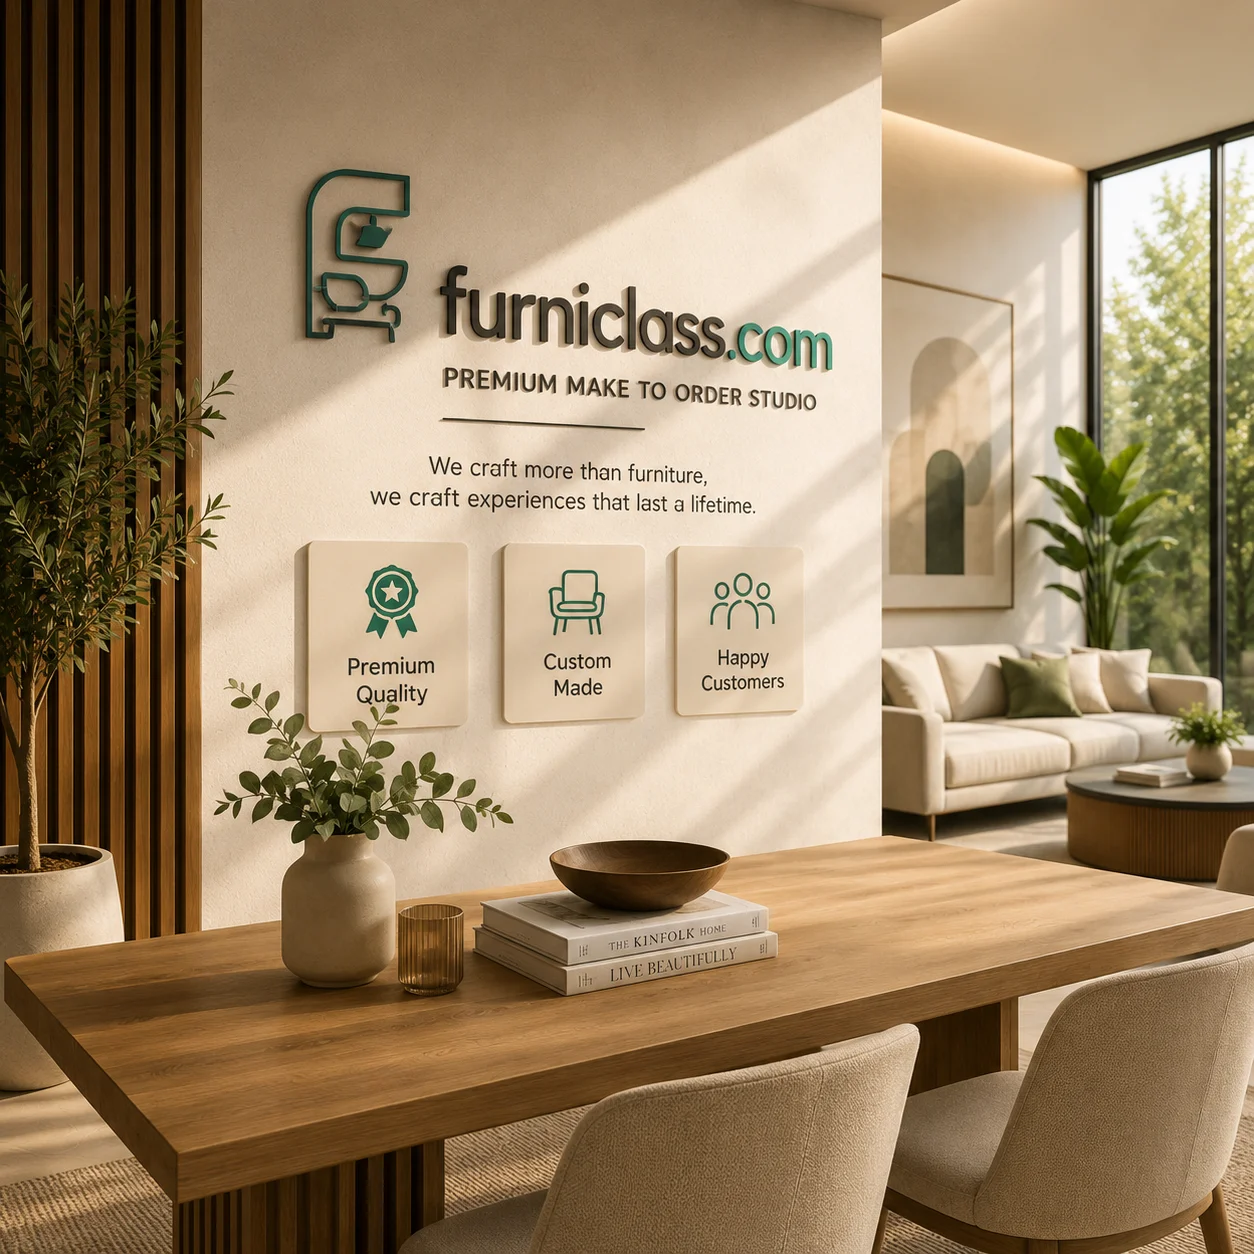
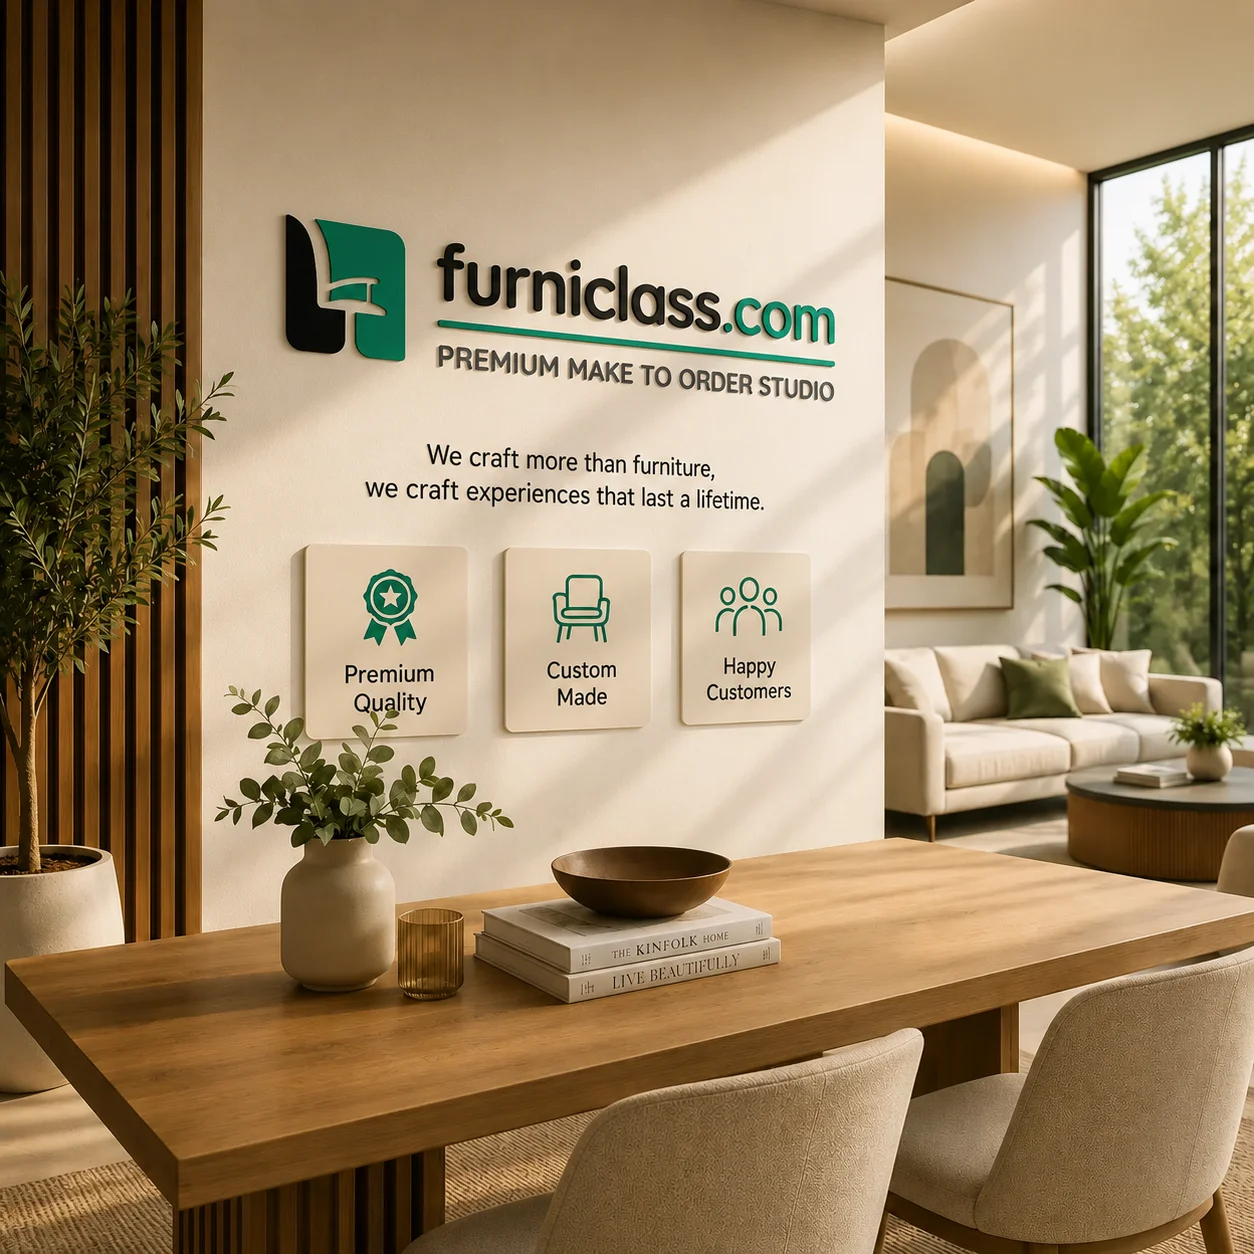
work on furniclass

diff --git a/components/common/footer.tsx b/components/common/footer.tsx
@@ -66,7 +66,7 @@ export default function Footer() {
 
                   {/* Subtitle */}
                   <span className="font-quicksand text-xs font-bold uppercase text-white leading-none">
-                    Premium Make To Order Studio
+                    Make To Order Studio
                   </span>
                 </div>
               </Link>
@@ -185,9 +185,9 @@ export default function Footer() {
                       <path d="M20 10c0 6-8 12-8 12s-8-6-8-12a8 8 0 0 1 16 0Z" />
                       <circle cx="12" cy="10" r="3" />
                     </svg>
-                    <span className="lowercase">
-                      3F-05, OZONE CENTER, SECTOR 12, FARIDABAD, 121007,
-                      HARYANA, DELHI NCR
+                    <span className="">
+                      3F-05, Ozone Center, Sector 12, Faridabad, 121007,
+                      HAryana, Delhi NCR
                     </span>
                   </li>
                   <li className="flex items-center justify-center md:justify-start gap-2.5">
@@ -206,10 +206,10 @@ export default function Footer() {
                       <path d="m22 7-8.97 5.7a1.94 1.94 0 0 1-2.06 0L2 7" />
                     </svg>
                     <a
-                      href="mailto:concierge@Furniclass.com"
+                      href="mailto:concierge@furniclass.com"
                       className="hover:underline"
                     >
-                      concierge@Furniclass.com
+                      concierge@furniclass.com
                     </a>
                   </li>
                   <li className="flex items-center justify-center md:justify-start gap-2.5">

diff --git a/components/about/hero.tsx b/components/about/hero.tsx
@@ -56,8 +56,13 @@ export default function AboutHero() {
       className="w-full bg-bg-main font-quicksand"
     >
       <div className="mx-auto max-w-7xl px-4 sm:px-6 lg:px-8">
+        <div className="mx-auto w-full max-w-7xl py-3 px-4 sm:px-6 lg:px-8 bg-bg-card border border-border-light font-quicksand rounded-xs">
+          <h2 className="text-primary font-bold text-2xl text-center">
+            About Furniclass
+          </h2>
+        </div>
         {/* Top Split Content Section */}
-        <div className="grid grid-cols-1 gap-6 lg:grid-cols-12 lg:gap-12 text-center lg:text-left">
+        <div className="grid grid-cols-1 gap-6 lg:grid-cols-12 lg:gap-12 text-center lg:text-left mt-6">
           {/* Left Text Column */}
           <div className="lg:col-span-6 flex flex-col items-center lg:items-start text-center lg:text-left">
             <h2

diff --git a/components/categories.tsx b/components/categories.tsx
@@ -61,6 +61,11 @@ export default function Category() {
       className="w-full overflow-hidden"
     >
       <div className="mx-auto max-w-7xl px-4 sm:px-6 lg:px-8">
+        <div className="mx-auto w-full max-w-7xl py-3 px-4 sm:px-6 lg:px-8 bg-bg-card border border-border-light font-quicksand rounded-xs">
+          <h2 className="text-primary font-bold text-2xl text-center">
+            Furniclass Category
+          </h2>
+        </div>
         {/* <SectionHeading
           id="category-heading"
           title="Categories"
@@ -68,7 +73,7 @@ export default function Category() {
         /> */}
 
         {/* Category Swiper Slider Showcase */}
-        <div className="w-full overflow-hidden">
+        <div className="w-full overflow-hidden mt-6">
           <Swiper
             modules={[Autoplay, Pagination]}
             spaceBetween={40}

diff --git a/app/blogs/page.tsx b/app/blogs/page.tsx
@@ -89,9 +89,15 @@ export default function BlogsPage() {
   return (
     <main className="font-quicksand bg-bg-main">
       <PageBanner />
+
       <section className="">
         <div className="mx-auto max-w-7xl px-4 sm:px-6 lg:px-8">
-          <div className="grid grid-cols-1 gap-6 lg:grid-cols-12 items-start">
+          <div className="mx-auto w-full max-w-7xl py-3 px-4 sm:px-6 lg:px-8 bg-bg-card border border-border-light font-quicksand rounded-xs">
+            <h2 className="text-primary font-bold text-2xl text-center">
+              Furniclass Blogs
+            </h2>
+          </div>
+          <div className="grid grid-cols-1 mt-6 gap-6 lg:grid-cols-12 items-start">
             {/* Main Blog Grid Area */}
             <div className="lg:col-span-8 w-full">
               <div className="grid grid-cols-1 sm:grid-cols-2 gap-6 w-full">

diff --git a/components/hero.tsx b/components/hero.tsx
@@ -105,7 +105,7 @@ export default function Hero() {
           {/* Modal Enlarged Image Container */}
           <div
             onClick={(e) => e.stopPropagation()}
-            className="relative w-full max-w-md sm:max-w-lg aspect-square bg-[#0e0e0e] border-2 border-white/20 shadow-2xl overflow-hidden p-6 animate-scaleUp"
+            className="relative w-full max-w-md sm:max-w-lg aspect-square bg-[#040B1E] border-2 border-white/20 shadow-2xl overflow-hidden p-6 animate-scaleUp"
           >
             <Image
               src={fixedImage.src}

diff --git a/components/common/page-banner.tsx b/components/common/page-banner.tsx
@@ -93,7 +93,7 @@ export default function Hero() {
 
           <div
             onClick={(e) => e.stopPropagation()}
-            className="relative w-full max-w-md sm:max-w-lg aspect-square bg-[#0e0e0e] border-2 border-white/20 shadow-2xl overflow-hidden p-6"
+            className="relative w-full max-w-md sm:max-w-lg aspect-square bg-[#040B1E] border-2 border-white/20 shadow-2xl overflow-hidden p-6"
           >
             <Image
               src={fixedImage.src}

diff --git a/components/contact/main-contact-form.tsx b/components/contact/main-contact-form.tsx
@@ -93,7 +93,7 @@ export default function MainContactForm({
       className="bg-bg-card p-6 border border-border-light font-quicksand space-y-6 rounded-xs"
     >
       <h2
-        className={`text-primary font-bold border-b border-b-black/10 pb-4 text-2xl ${
+        className={`text-primary font-bold border-b border-b-black/10 pb-4 text-lg ${
           isContactUs ? "text-center lg:text-start" : "text-center"
         }`}
       >

diff --git a/components/contact/contact-info.tsx b/components/contact/contact-info.tsx
@@ -27,7 +27,7 @@ export default function ContactInfo() {
           <div>
             <h3 className="text-xl font-bold">Address</h3>
             <p className="mt-1 text-sm text-white/90 leading-relaxed">
-              3F-05, Ozone Center, Sector 12, Faridabad, 121007, Haryana, Delhi
+              3F-05, Ozone Center, Sector 12, Faridabad, 121007, HAryana, Delhi
               NCR
             </p>
           </div>

diff --git a/components/common/navbar.tsx b/components/common/navbar.tsx
@@ -51,7 +51,7 @@ export default function Navbar() {
 
             {/* Subtitle */}
             <span className="font-quicksand text-xs font-bold uppercase text-muted-light leading-none">
-              Premium Make To Order Studio
+              Make To Order Studio
             </span>
           </div>
         </Link>

diff --git a/app/about-us/page.tsx b/app/about-us/page.tsx
@@ -12,7 +12,6 @@ export default function AboutUsPage() {
   return (
     <main>
       <PageBanner />
-
       <AboutHero />
     </main>
   );
